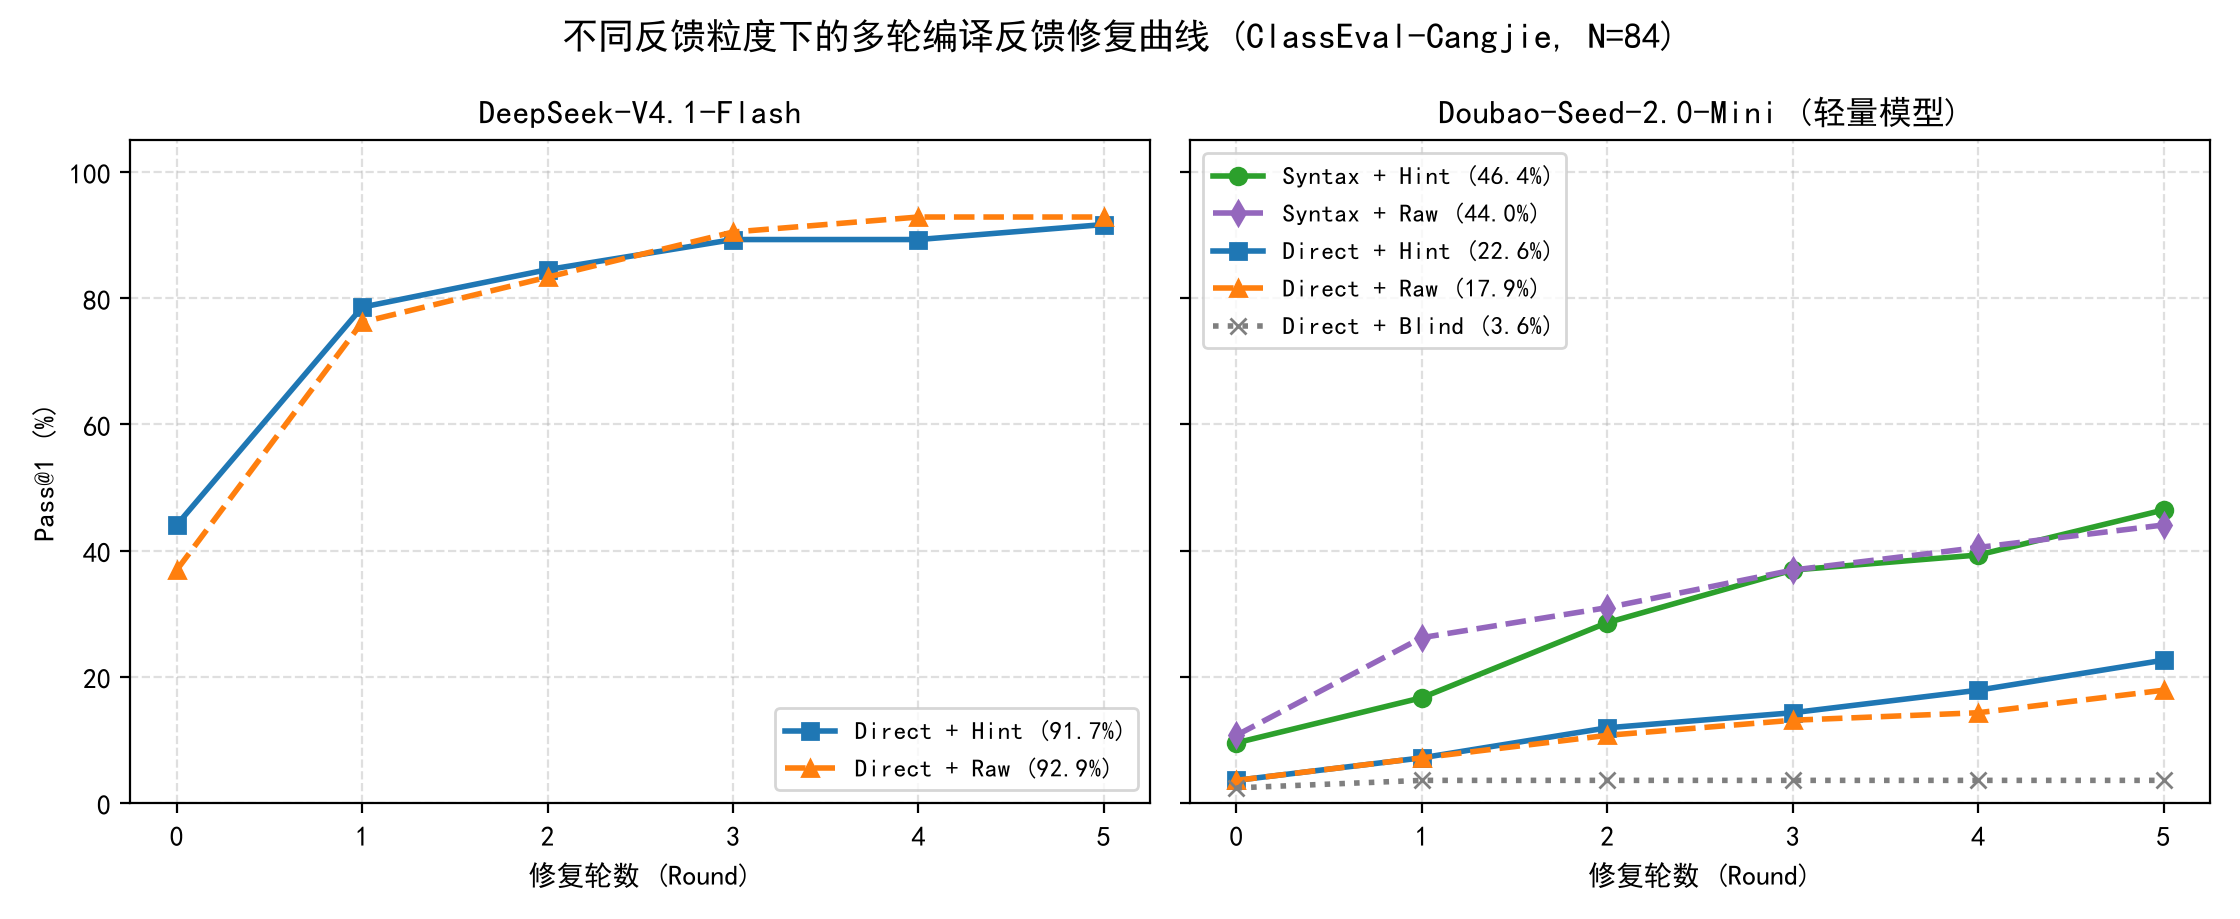
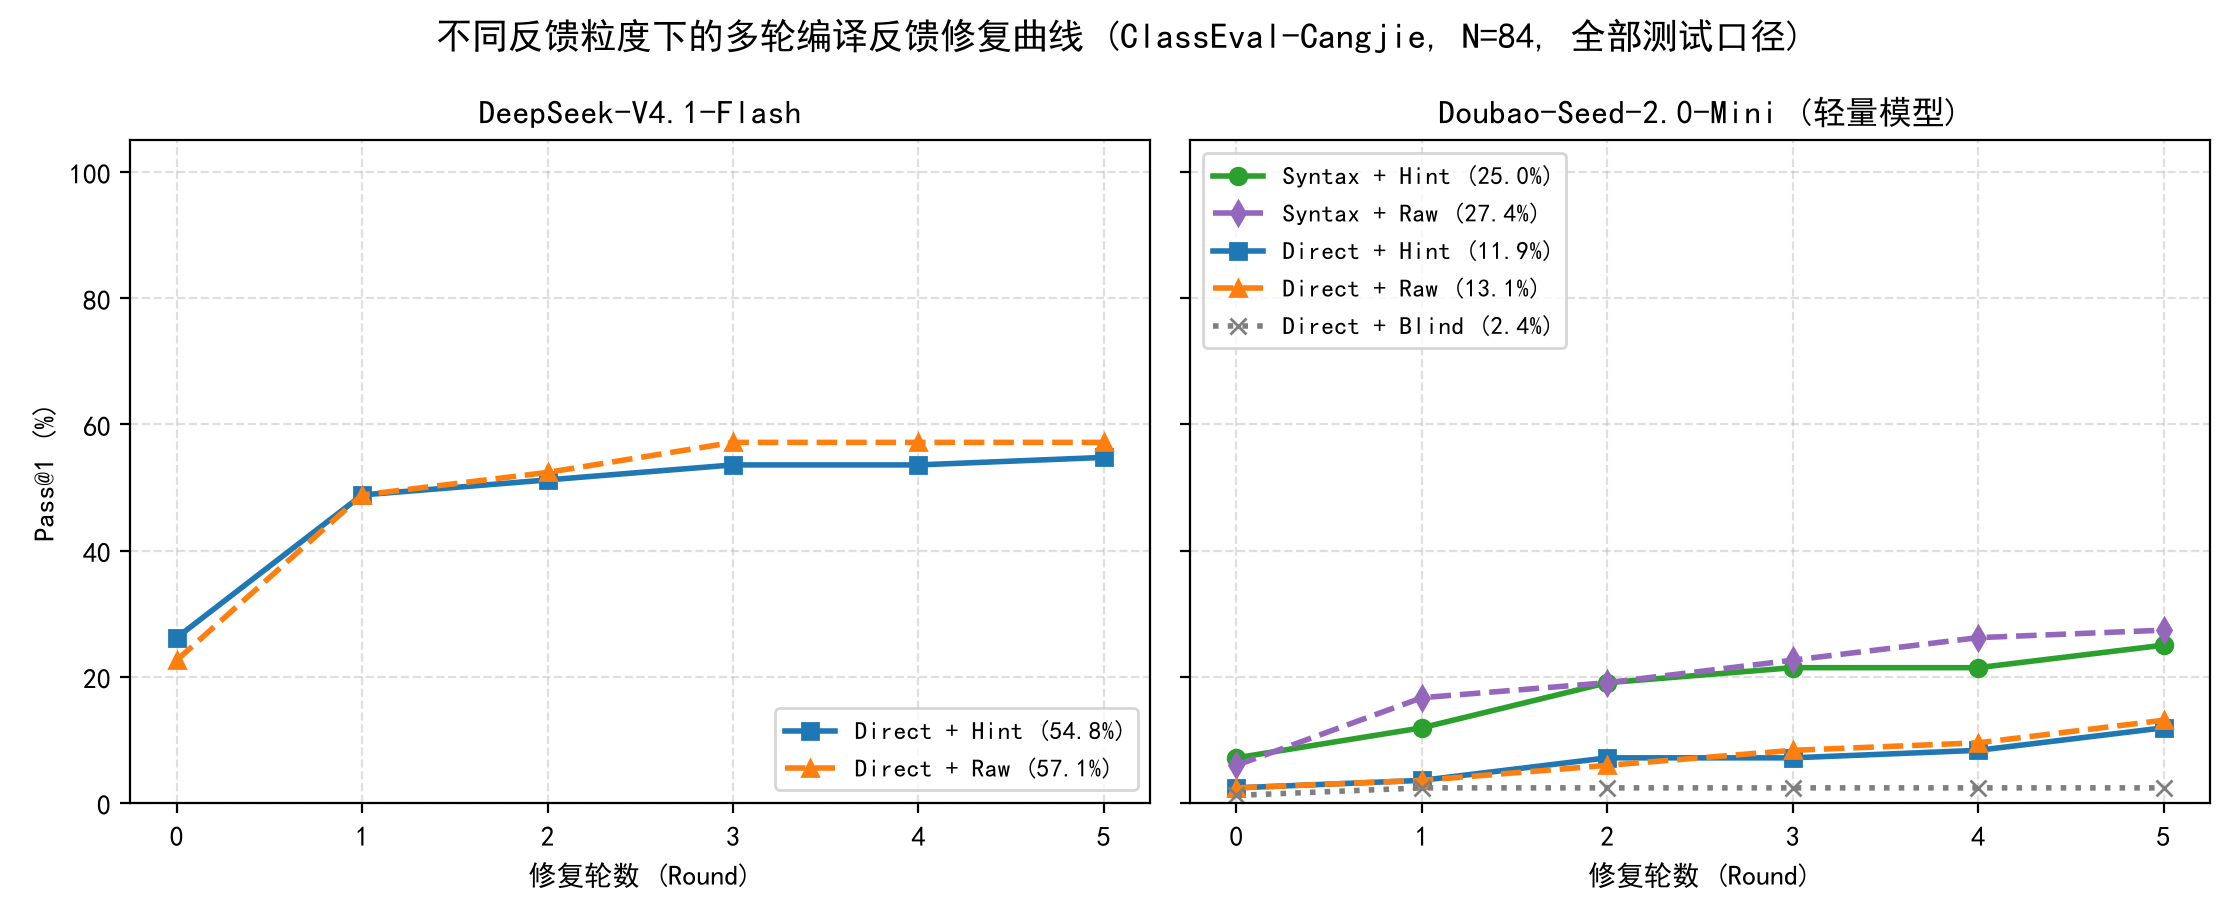
feat: add ClassEval all-tests re-evaluation (official pass_rate metric)
- reeval_classeval.py: re-run final candidates on the full ClassEval test list; verified 852/852 per-test agreement with official CangjieBench records
- unit tests for per-round curve computation
- fig4 now plots the all-tests (official) metric
- track 7 re-evaluation summaries

diff --git a/src/reeval_classeval.py b/src/reeval_classeval.py
@@ -1,0 +1,186 @@
+"""ClassEval 全部测试复评（对齐 CangjieBench 官方 pass_rate 口径）。
+
+官方 Pass@1 = 一道题的全部测试（test 列表）都通过；我们的修复实验只用了集成测试 test[-1]。
+修复循环在 test[-1] 通过时停止，所以只有「最终通过 test[-1]」的代码需要补跑其余测试：
+  第 k 轮全部测试通过  <=>  最终代码通过全部测试 且 rounds_used <= k
+
+用法：
+  # V1：官方参考答案
+  python src/reeval_classeval.py --reference
+  # V2：复评官方公开结果并与官方 records 逐测试比对
+  python src/reeval_classeval.py --solutions <x_ClassEval.jsonl> --compare <x_ClassEval.jsonl.records.jsonl>
+  # 正式复评我们的 ClassEval 实验（同时完成 V3：test[-1] 重跑一致性）
+  python src/reeval_classeval.py
+"""
+from __future__ import annotations
+
+import argparse
+import glob
+import json
+import os
+import re
+import sys
+from collections import defaultdict
+from concurrent.futures import ThreadPoolExecutor
+
+sys.path.insert(0, os.path.dirname(os.path.abspath(__file__)))
+from analyze import mcnemar_p  # noqa: E402
+from data import CLASSEVAL, ROOT, read_jsonl, write_jsonl  # noqa: E402
+from runner import compile_and_run  # noqa: E402
+
+MAX_ROUND = 5
+
+
+def load_classeval_tests() -> dict[str, dict]:
+    """{id: {"solution": 参考答案, "tests": 完整测试列表}}（data.load_classeval 只给 test[-1]）。"""
+    out = {}
+    for d in read_jsonl(CLASSEVAL):
+        tests = d["test"] if isinstance(d["test"], list) else [d["test"]]
+        out[str(d["id"])] = {"solution": d["solution"], "tests": tests}
+    return out
+
+
+def round_curves(rows: list[dict], max_round: int = MAX_ROUND) -> tuple[list[float], list[float]]:
+    """由每题的 rounds_used / passed_main / passed_all 算出两种口径的逐轮累计通过率（%）。"""
+    n = len(rows)
+
+    def curve(key: str) -> list[float]:
+        return [round(100 * sum(1 for r in rows if r[key] and r["rounds_used"] <= k) / n, 2)
+                for k in range(max_round + 1)]
+
+    return curve("passed_main"), curve("passed_all")
+
+
+def run_all_tests(jobs: list[tuple[str, str]], ds: dict[str, dict], workers: int) -> dict[str, list]:
+    """jobs = [(id, solution)]，对每题的每个测试编译运行，返回 {id: [RunResult, ...]}（按测试顺序）。"""
+    tasks = [(qid, i, sol, t) for qid, sol in jobs for i, t in enumerate(ds[qid]["tests"])]
+    with ThreadPoolExecutor(workers) as ex:
+        results = list(ex.map(lambda x: compile_and_run(x[2] + "\n" + x[3]), tasks))
+    out: dict[str, list] = defaultdict(list)
+    for (qid, _, _, _), res in sorted(zip(tasks, results), key=lambda p: (p[0][0], p[0][1])):
+        out[qid].append(res)
+    return out
+
+
+def compare_with_official(status: dict[str, list[bool]], records_path: str) -> None:
+    official = {str(r["id"]): r["run_result"]["status"] for r in read_jsonl(records_path)}
+    same = total = 0
+    diffs = []
+    for q, s in status.items():
+        o = official.get(q)
+        if o is None or len(o) != len(s):
+            diffs.append((q, "len", s, o))
+            continue
+        for i, (a, b) in enumerate(zip(s, o)):
+            total += 1
+            same += a == b
+            if a != b:
+                diffs.append((q, i, a, b))
+    print(f"与官方 records 逐测试一致：{same}/{total} ({100 * same / max(total, 1):.2f}%)")
+    for d in diffs[:20]:
+        print(f"  不一致 id={d[0]} test={d[1]} ours={d[2]} official={d[3]}")
+
+
+def check_solutions(jobs, ds, workers, compare: str | None) -> None:
+    """V1 / V2：对给定 solutions 跑全部测试，打印两种口径，可选与官方 records 逐测试比对。"""
+    res = run_all_tests(jobs, ds, workers)
+    status = {q: [r.passed for r in rs] for q, rs in res.items()}
+    n = len(status)
+    n_all = sum(all(s) for s in status.values())
+    n_main = sum(s[-1] for s in status.values())
+    print(f"N={n}  全部测试通过={n_all} ({100 * n_all / n:.1f}%)  test[-1]通过={n_main} ({100 * n_main / n:.1f}%)")
+    if compare:
+        compare_with_official(status, compare)
+        return
+    for q, s in sorted(status.items(), key=lambda p: int(p[0])):
+        if not all(s):
+            print(f"  未全部通过 id={q}: {[r.failure_kind for r in res[q]]}")
+
+
+def reeval_experiment(path: str, ds: dict[str, dict], workers: int, out_dir: str) -> list[dict]:
+    rows = read_jsonl(path)
+    jobs = [(str(r["id"]), r["solution"]) for r in rows if r.get("passed")]
+    res = run_all_tests(jobs, ds, workers)
+    out = []
+    for r in rows:
+        qid = str(r["id"])
+        if qid in res:
+            st = [x.passed for x in res[qid]]
+            rec = {"id": qid, "rounds_used": r["rounds_used"], "passed_main": True,
+                   "passed_all": all(st), "status": st,
+                   "failure_kinds": [x.failure_kind for x in res[qid]],
+                   "main_rerun_passed": st[-1]}
+        else:
+            rec = {"id": qid, "rounds_used": r.get("rounds_used", MAX_ROUND), "passed_main": False,
+                   "passed_all": False, "status": None, "failure_kinds": None,
+                   "main_rerun_passed": None, "note": "not_reevaluated"}
+        out.append(rec)
+    name = os.path.basename(path).replace(".jsonl", "")
+    write_jsonl(os.path.join(out_dir, f"{name}.alltests.jsonl"), out)
+    main, all_ = round_curves(out)
+    unstable = [r["id"] for r in out if r["passed_main"] and not r["main_rerun_passed"]]
+    summary = {"name": name, "n": len(out), "curve_main": main, "curve_all": all_,
+               "final_main": sum(r["passed_main"] for r in out),
+               "final_all": sum(r["passed_all"] for r in out),
+               "main_rerun_unstable_ids": unstable}
+    with open(os.path.join(out_dir, f"{name}.alltests.summary.json"), "w", encoding="utf-8") as f:
+        json.dump(summary, f, ensure_ascii=False, indent=2)
+    return out
+
+
+def print_report(results: dict[str, list[dict]]) -> None:
+    print(f"\n{'实验':32s} | 口径 | " + " ".join(f"{'R' + str(k):>6s}" for k in range(MAX_ROUND + 1)) + " | V3不稳定")
+    print("-" * 100)
+    for name, rows in results.items():
+        main, all_ = round_curves(rows)
+        unstable = sum(1 for r in rows if r["passed_main"] and not r["main_rerun_passed"])
+        print(f"{name:32s} | main | " + " ".join(f"{v:5.2f}%" for v in main) + f" | {unstable}")
+        print(f"{'':32s} | all  | " + " ".join(f"{v:5.2f}%" for v in all_))
+
+    print("\n=== 全部测试口径下的 McNemar 检验 ===")
+    groups: dict[str, dict] = defaultdict(dict)
+    for name, rows in results.items():
+        m = re.match(r"^(.+)_(blind|raw|hint)_r\d+$", name)
+        if m:
+            groups[m.group(1)][m.group(2)] = [
+                {"id": r["id"], "passed": r["passed_all"], "rounds_used": r["rounds_used"]} for r in rows]
+    for prefix, grp in sorted(groups.items()):
+        for a, b in [("hint", "raw"), ("hint", "blind"), ("raw", "blind")]:
+            if a in grp and b in grp:
+                for k in (1, 2, 3, 5):
+                    ca, cb, pv = mcnemar_p(grp[a], grp[b], k)
+                    sig = "*" if pv < 0.05 else ""
+                    print(f"  {prefix} | R{k} {a} vs {b}: {a}_only={ca}, {b}_only={cb}, p={pv:.4f} {sig}")
+
+
+def main():
+    ap = argparse.ArgumentParser()
+    ap.add_argument("--reference", action="store_true", help="V1：复评官方参考答案")
+    ap.add_argument("--solutions", help="V2：复评一个官方 solutions jsonl（所有题、所有测试）")
+    ap.add_argument("--compare", help="V2：与之逐测试比对的官方 records jsonl")
+    ap.add_argument("--exp-glob", default=os.path.join(ROOT, "results", "exp", "*_ce_*_r5.jsonl"))
+    ap.add_argument("--out-dir", default=os.path.join(ROOT, "results", "reeval"))
+    ap.add_argument("-j", "--workers", type=int, default=2)
+    a = ap.parse_args()
+
+    ds = load_classeval_tests()
+    if a.reference:
+        check_solutions([(q, d["solution"]) for q, d in ds.items()], ds, a.workers, None)
+        return
+    if a.solutions:
+        jobs = [(str(r["id"]), r["solution"]) for r in read_jsonl(a.solutions)]
+        check_solutions(jobs, ds, a.workers, a.compare)
+        return
+
+    os.makedirs(a.out_dir, exist_ok=True)
+    paths = sorted(p for p in glob.glob(a.exp_glob) if not p.endswith(".records.jsonl"))
+    results = {}
+    for p in paths:
+        name = os.path.basename(p).replace(".jsonl", "")
+        print(f"[reeval] {name}")
+        results[name] = reeval_experiment(p, ds, a.workers, a.out_dir)
+    print_report(results)
+
+
+if __name__ == "__main__":
+    main()

diff --git a/tests/test_reeval_classeval.py b/tests/test_reeval_classeval.py
@@ -1,0 +1,36 @@
+import os
+import sys
+
+sys.path.insert(0, os.path.join(os.path.dirname(os.path.dirname(os.path.abspath(__file__))), "src"))
+from reeval_classeval import round_curves  # noqa: E402
+
+
+def test_passed_at_round0_counts_from_round0():
+    rows = [{"rounds_used": 0, "passed_main": True, "passed_all": True}]
+    main, all_ = round_curves(rows, max_round=2)
+    assert main == [100.0, 100.0, 100.0]
+    assert all_ == [100.0, 100.0, 100.0]
+
+
+def test_repaired_at_round2_counts_from_round2():
+    rows = [{"rounds_used": 2, "passed_main": True, "passed_all": True}]
+    main, all_ = round_curves(rows, max_round=3)
+    assert main == [0.0, 0.0, 100.0, 100.0]
+    assert all_ == [0.0, 0.0, 100.0, 100.0]
+
+
+def test_main_only_pass_is_not_counted_in_all_tests_curve():
+    rows = [{"rounds_used": 1, "passed_main": True, "passed_all": False}]
+    main, all_ = round_curves(rows, max_round=1)
+    assert main == [0.0, 100.0]
+    assert all_ == [0.0, 0.0]
+
+
+def test_failed_row_never_counts_and_percent_uses_all_rows():
+    rows = [
+        {"rounds_used": 5, "passed_main": False, "passed_all": False},
+        {"rounds_used": 0, "passed_main": True, "passed_all": True},
+    ]
+    main, all_ = round_curves(rows, max_round=1)
+    assert main == [50.0, 50.0]
+    assert all_ == [50.0, 50.0]

diff --git a/src/plot_figures.py b/src/plot_figures.py
@@ -8,6 +8,7 @@
 from __future__ import annotations
 
 import glob
+import json
 import os
 import sys
 
@@ -159,8 +160,14 @@ def main():
         summaries[s["name"]] = s
         data[s["name"]] = load_exp(p)
     plot_curves(summaries)
-    plot_curves(summaries, CE_GROUPS,
-                "不同反馈粒度下的多轮编译反馈修复曲线 (ClassEval-Cangjie, N=84)",
+    # ClassEval 用全部测试口径（官方 pass_rate），数据来自 src/reeval_classeval.py
+    ce_summaries = {}
+    for p in glob.glob(os.path.join(ROOT, "results", "reeval", "*.alltests.summary.json")):
+        with open(p, encoding="utf-8") as f:
+            s = json.load(f)
+        ce_summaries[s["name"]] = {"curve": s["curve_all"]}
+    plot_curves(ce_summaries, CE_GROUPS,
+                "不同反馈粒度下的多轮编译反馈修复曲线 (ClassEval-Cangjie, N=84, 全部测试口径)",
                 "fig4_rounds_curve_classeval.png", doubao_legend_loc="upper left")
     plot_pareto(summaries)
     plot_error_repair(data)
